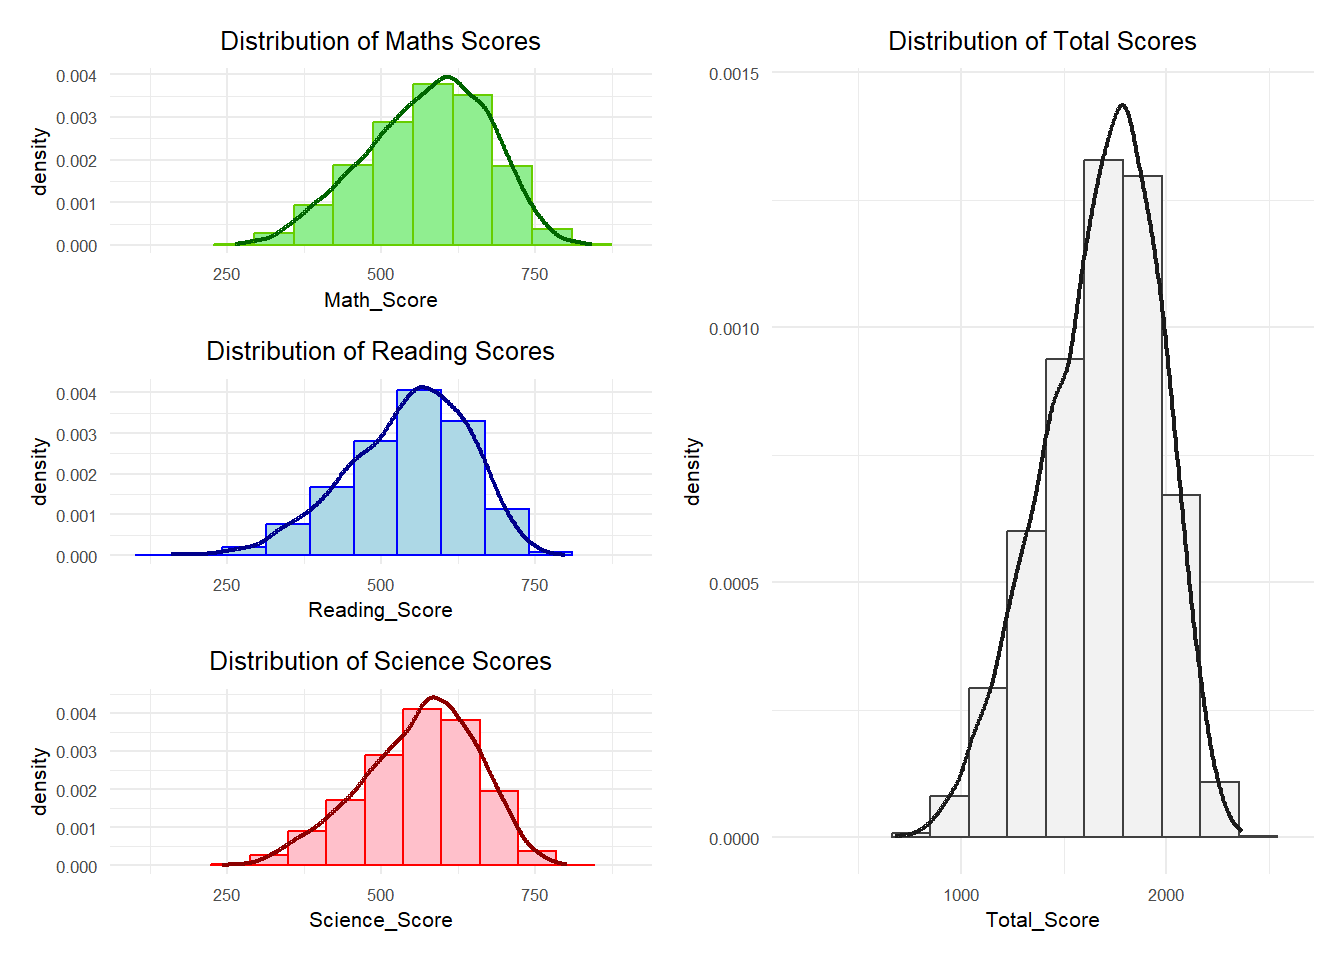
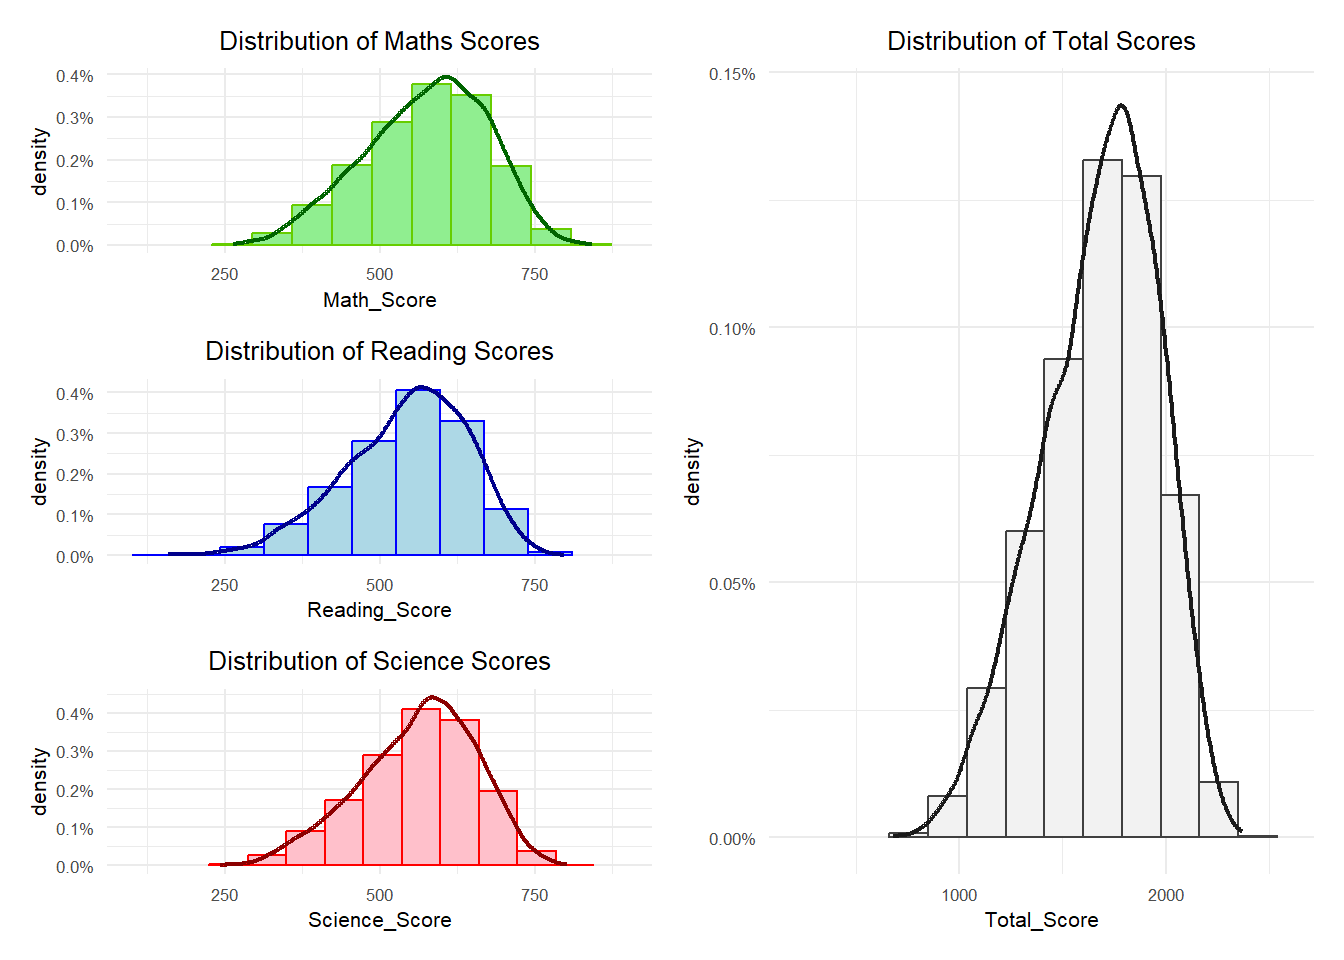
Commit

diff --git a/_site/Take-home_Ex/Take-home_Ex02/Take-home_Ex02.html b/_site/Take-home_Ex/Take-home_Ex02/Take-home_Ex02.html
@@ -368,40 +368,44 @@ pre > code.sourceCode > span > a:first-child::before { text-decoration: underlin
 <div class="sourceCode cell-code" id="cb5"><pre class="sourceCode r code-with-copy"><code class="sourceCode r"><span id="cb5-1"><a href="#cb5-1" aria-hidden="true" tabindex="-1"></a>plot1 <span class="ot">&lt;-</span> <span class="fu">ggplot</span>(<span class="at">data =</span> PV, <span class="fu">aes</span>(<span class="at">x =</span> Math_Score, <span class="at">y =</span> <span class="fu">after_stat</span>(density))) <span class="sc">+</span></span>
 <span id="cb5-2"><a href="#cb5-2" aria-hidden="true" tabindex="-1"></a>  <span class="fu">geom_histogram</span>(<span class="at">bins =</span> <span class="dv">10</span>, <span class="at">boundary =</span> <span class="dv">100</span>, <span class="at">color =</span> <span class="st">"chartreuse3"</span>, <span class="at">fill =</span> <span class="st">"lightgreen"</span>) <span class="sc">+</span></span>
 <span id="cb5-3"><a href="#cb5-3" aria-hidden="true" tabindex="-1"></a>  <span class="fu">geom_density</span>(<span class="at">lwd =</span> <span class="fl">0.8</span>, <span class="at">colour =</span> <span class="st">"darkgreen"</span>) <span class="sc">+</span></span>
-<span id="cb5-4"><a href="#cb5-4" aria-hidden="true" tabindex="-1"></a>  <span class="fu">coord_cartesian</span>(<span class="at">xlim =</span> <span class="fu">c</span>(<span class="dv">100</span>, <span class="dv">900</span>)) <span class="sc">+</span></span>
-<span id="cb5-5"><a href="#cb5-5" aria-hidden="true" tabindex="-1"></a>  <span class="fu">ggtitle</span>(<span class="st">"Distribution of Maths Scores"</span>)<span class="sc">+</span></span>
-<span id="cb5-6"><a href="#cb5-6" aria-hidden="true" tabindex="-1"></a>  <span class="fu">theme_minimal</span>() <span class="sc">+</span></span>
-<span id="cb5-7"><a href="#cb5-7" aria-hidden="true" tabindex="-1"></a>  <span class="fu">theme</span>(<span class="at">text =</span> <span class="fu">element_text</span>(<span class="at">size =</span> <span class="dv">8</span>),</span>
-<span id="cb5-8"><a href="#cb5-8" aria-hidden="true" tabindex="-1"></a>        <span class="at">plot.title =</span> <span class="fu">element_text</span>(<span class="at">hjust =</span> <span class="fl">0.5</span>))</span>
-<span id="cb5-9"><a href="#cb5-9" aria-hidden="true" tabindex="-1"></a>  </span>
-<span id="cb5-10"><a href="#cb5-10" aria-hidden="true" tabindex="-1"></a>plot2 <span class="ot">&lt;-</span> <span class="fu">ggplot</span>(<span class="at">data =</span> PV, <span class="fu">aes</span>(<span class="at">x =</span> Reading_Score, <span class="at">y =</span> <span class="fu">after_stat</span>(density))) <span class="sc">+</span></span>
-<span id="cb5-11"><a href="#cb5-11" aria-hidden="true" tabindex="-1"></a>  <span class="fu">geom_histogram</span>(<span class="at">bins =</span> <span class="dv">10</span>, <span class="at">boundary =</span> <span class="dv">100</span>, <span class="at">color =</span> <span class="st">"blue"</span>, <span class="at">fill =</span> <span class="st">"lightblue"</span>) <span class="sc">+</span></span>
-<span id="cb5-12"><a href="#cb5-12" aria-hidden="true" tabindex="-1"></a>  <span class="fu">geom_density</span>(<span class="at">lwd =</span> <span class="fl">0.8</span>, <span class="at">colour =</span> <span class="st">"darkblue"</span>) <span class="sc">+</span></span>
-<span id="cb5-13"><a href="#cb5-13" aria-hidden="true" tabindex="-1"></a>  <span class="fu">coord_cartesian</span>(<span class="at">xlim =</span> <span class="fu">c</span>(<span class="dv">100</span>, <span class="dv">900</span>)) <span class="sc">+</span></span>
-<span id="cb5-14"><a href="#cb5-14" aria-hidden="true" tabindex="-1"></a>  <span class="fu">ggtitle</span>(<span class="st">"Distribution of Reading Scores"</span>)<span class="sc">+</span></span>
-<span id="cb5-15"><a href="#cb5-15" aria-hidden="true" tabindex="-1"></a>  <span class="fu">theme_minimal</span>() <span class="sc">+</span></span>
-<span id="cb5-16"><a href="#cb5-16" aria-hidden="true" tabindex="-1"></a>  <span class="fu">theme</span>(<span class="at">text =</span> <span class="fu">element_text</span>(<span class="at">size =</span> <span class="dv">8</span>),</span>
-<span id="cb5-17"><a href="#cb5-17" aria-hidden="true" tabindex="-1"></a>        <span class="at">plot.title =</span> <span class="fu">element_text</span>(<span class="at">hjust =</span> <span class="fl">0.5</span>))</span>
-<span id="cb5-18"><a href="#cb5-18" aria-hidden="true" tabindex="-1"></a></span>
-<span id="cb5-19"><a href="#cb5-19" aria-hidden="true" tabindex="-1"></a>plot3 <span class="ot">&lt;-</span> <span class="fu">ggplot</span>(<span class="at">data =</span> PV, <span class="fu">aes</span>(<span class="at">x =</span> Science_Score, <span class="at">y =</span> <span class="fu">after_stat</span>(density))) <span class="sc">+</span></span>
-<span id="cb5-20"><a href="#cb5-20" aria-hidden="true" tabindex="-1"></a>  <span class="fu">geom_histogram</span>(<span class="at">bins =</span> <span class="dv">10</span>, <span class="at">boundary =</span> <span class="dv">100</span>, <span class="at">color =</span> <span class="st">"red"</span>, <span class="at">fill =</span> <span class="st">"pink"</span>) <span class="sc">+</span></span>
-<span id="cb5-21"><a href="#cb5-21" aria-hidden="true" tabindex="-1"></a>  <span class="fu">geom_density</span>(<span class="at">lwd =</span> <span class="fl">0.8</span>, <span class="at">colour =</span> <span class="st">"darkred"</span>) <span class="sc">+</span></span>
-<span id="cb5-22"><a href="#cb5-22" aria-hidden="true" tabindex="-1"></a>  <span class="fu">coord_cartesian</span>(<span class="at">xlim =</span> <span class="fu">c</span>(<span class="dv">100</span>, <span class="dv">900</span>)) <span class="sc">+</span></span>
-<span id="cb5-23"><a href="#cb5-23" aria-hidden="true" tabindex="-1"></a>  <span class="fu">ggtitle</span>(<span class="st">"Distribution of Science Scores"</span>)<span class="sc">+</span></span>
-<span id="cb5-24"><a href="#cb5-24" aria-hidden="true" tabindex="-1"></a>  <span class="fu">theme_minimal</span>() <span class="sc">+</span></span>
-<span id="cb5-25"><a href="#cb5-25" aria-hidden="true" tabindex="-1"></a>  <span class="fu">theme</span>(<span class="at">text =</span> <span class="fu">element_text</span>(<span class="at">size =</span> <span class="dv">8</span>),</span>
-<span id="cb5-26"><a href="#cb5-26" aria-hidden="true" tabindex="-1"></a>        <span class="at">plot.title =</span> <span class="fu">element_text</span>(<span class="at">hjust =</span> <span class="fl">0.5</span>))</span>
-<span id="cb5-27"><a href="#cb5-27" aria-hidden="true" tabindex="-1"></a></span>
-<span id="cb5-28"><a href="#cb5-28" aria-hidden="true" tabindex="-1"></a>plot4 <span class="ot">&lt;-</span> <span class="fu">ggplot</span>(<span class="at">data =</span> PV, <span class="fu">aes</span>(<span class="at">x =</span> Total_Score, <span class="at">y =</span> <span class="fu">after_stat</span>(density))) <span class="sc">+</span></span>
-<span id="cb5-29"><a href="#cb5-29" aria-hidden="true" tabindex="-1"></a>  <span class="fu">geom_histogram</span>(<span class="at">bins =</span> <span class="dv">10</span>, <span class="at">boundary =</span> <span class="dv">100</span>, <span class="at">color =</span> <span class="st">"gray25"</span>, <span class="at">fill =</span> <span class="st">"gray95"</span>) <span class="sc">+</span></span>
-<span id="cb5-30"><a href="#cb5-30" aria-hidden="true" tabindex="-1"></a>  <span class="fu">geom_density</span>(<span class="at">lwd =</span> <span class="fl">0.8</span>, <span class="at">colour =</span> <span class="st">"gray10"</span>) <span class="sc">+</span></span>
-<span id="cb5-31"><a href="#cb5-31" aria-hidden="true" tabindex="-1"></a>  <span class="fu">coord_cartesian</span>(<span class="at">xlim =</span> <span class="fu">c</span>(<span class="dv">200</span>, <span class="dv">2600</span>)) <span class="sc">+</span></span>
-<span id="cb5-32"><a href="#cb5-32" aria-hidden="true" tabindex="-1"></a>  <span class="fu">ggtitle</span>(<span class="st">"Distribution of Total Scores"</span>)<span class="sc">+</span></span>
-<span id="cb5-33"><a href="#cb5-33" aria-hidden="true" tabindex="-1"></a>  <span class="fu">theme_minimal</span>() <span class="sc">+</span></span>
-<span id="cb5-34"><a href="#cb5-34" aria-hidden="true" tabindex="-1"></a>  <span class="fu">theme</span>(<span class="at">text =</span> <span class="fu">element_text</span>(<span class="at">size =</span> <span class="dv">8</span>),</span>
-<span id="cb5-35"><a href="#cb5-35" aria-hidden="true" tabindex="-1"></a>        <span class="at">plot.title =</span> <span class="fu">element_text</span>(<span class="at">hjust =</span> <span class="fl">0.5</span>))</span>
-<span id="cb5-36"><a href="#cb5-36" aria-hidden="true" tabindex="-1"></a></span>
-<span id="cb5-37"><a href="#cb5-37" aria-hidden="true" tabindex="-1"></a>(plot1 <span class="sc">/</span> plot2 <span class="sc">/</span> plot3) <span class="sc">|</span> plot4</span></code><button title="Copy to Clipboard" class="code-copy-button"><i class="bi"></i></button></pre></div>
+<span id="cb5-4"><a href="#cb5-4" aria-hidden="true" tabindex="-1"></a>  <span class="fu">scale_y_continuous</span>(<span class="at">labels =</span> scales<span class="sc">::</span>percent) <span class="sc">+</span></span>
+<span id="cb5-5"><a href="#cb5-5" aria-hidden="true" tabindex="-1"></a>  <span class="fu">coord_cartesian</span>(<span class="at">xlim =</span> <span class="fu">c</span>(<span class="dv">100</span>, <span class="dv">900</span>)) <span class="sc">+</span></span>
+<span id="cb5-6"><a href="#cb5-6" aria-hidden="true" tabindex="-1"></a>  <span class="fu">ggtitle</span>(<span class="st">"Distribution of Maths Scores"</span>)<span class="sc">+</span></span>
+<span id="cb5-7"><a href="#cb5-7" aria-hidden="true" tabindex="-1"></a>  <span class="fu">theme_minimal</span>() <span class="sc">+</span></span>
+<span id="cb5-8"><a href="#cb5-8" aria-hidden="true" tabindex="-1"></a>  <span class="fu">theme</span>(<span class="at">text =</span> <span class="fu">element_text</span>(<span class="at">size =</span> <span class="dv">8</span>),</span>
+<span id="cb5-9"><a href="#cb5-9" aria-hidden="true" tabindex="-1"></a>        <span class="at">plot.title =</span> <span class="fu">element_text</span>(<span class="at">hjust =</span> <span class="fl">0.5</span>))</span>
+<span id="cb5-10"><a href="#cb5-10" aria-hidden="true" tabindex="-1"></a>  </span>
+<span id="cb5-11"><a href="#cb5-11" aria-hidden="true" tabindex="-1"></a>plot2 <span class="ot">&lt;-</span> <span class="fu">ggplot</span>(<span class="at">data =</span> PV, <span class="fu">aes</span>(<span class="at">x =</span> Reading_Score, <span class="at">y =</span> <span class="fu">after_stat</span>(density))) <span class="sc">+</span></span>
+<span id="cb5-12"><a href="#cb5-12" aria-hidden="true" tabindex="-1"></a>  <span class="fu">geom_histogram</span>(<span class="at">bins =</span> <span class="dv">10</span>, <span class="at">boundary =</span> <span class="dv">100</span>, <span class="at">color =</span> <span class="st">"blue"</span>, <span class="at">fill =</span> <span class="st">"lightblue"</span>) <span class="sc">+</span></span>
+<span id="cb5-13"><a href="#cb5-13" aria-hidden="true" tabindex="-1"></a>  <span class="fu">geom_density</span>(<span class="at">lwd =</span> <span class="fl">0.8</span>, <span class="at">colour =</span> <span class="st">"darkblue"</span>) <span class="sc">+</span></span>
+<span id="cb5-14"><a href="#cb5-14" aria-hidden="true" tabindex="-1"></a>  <span class="fu">scale_y_continuous</span>(<span class="at">labels =</span> scales<span class="sc">::</span>percent) <span class="sc">+</span></span>
+<span id="cb5-15"><a href="#cb5-15" aria-hidden="true" tabindex="-1"></a>  <span class="fu">coord_cartesian</span>(<span class="at">xlim =</span> <span class="fu">c</span>(<span class="dv">100</span>, <span class="dv">900</span>)) <span class="sc">+</span></span>
+<span id="cb5-16"><a href="#cb5-16" aria-hidden="true" tabindex="-1"></a>  <span class="fu">ggtitle</span>(<span class="st">"Distribution of Reading Scores"</span>)<span class="sc">+</span></span>
+<span id="cb5-17"><a href="#cb5-17" aria-hidden="true" tabindex="-1"></a>  <span class="fu">theme_minimal</span>() <span class="sc">+</span></span>
+<span id="cb5-18"><a href="#cb5-18" aria-hidden="true" tabindex="-1"></a>  <span class="fu">theme</span>(<span class="at">text =</span> <span class="fu">element_text</span>(<span class="at">size =</span> <span class="dv">8</span>),</span>
+<span id="cb5-19"><a href="#cb5-19" aria-hidden="true" tabindex="-1"></a>        <span class="at">plot.title =</span> <span class="fu">element_text</span>(<span class="at">hjust =</span> <span class="fl">0.5</span>))</span>
+<span id="cb5-20"><a href="#cb5-20" aria-hidden="true" tabindex="-1"></a></span>
+<span id="cb5-21"><a href="#cb5-21" aria-hidden="true" tabindex="-1"></a>plot3 <span class="ot">&lt;-</span> <span class="fu">ggplot</span>(<span class="at">data =</span> PV, <span class="fu">aes</span>(<span class="at">x =</span> Science_Score, <span class="at">y =</span> <span class="fu">after_stat</span>(density))) <span class="sc">+</span></span>
+<span id="cb5-22"><a href="#cb5-22" aria-hidden="true" tabindex="-1"></a>  <span class="fu">geom_histogram</span>(<span class="at">bins =</span> <span class="dv">10</span>, <span class="at">boundary =</span> <span class="dv">100</span>, <span class="at">color =</span> <span class="st">"red"</span>, <span class="at">fill =</span> <span class="st">"pink"</span>) <span class="sc">+</span></span>
+<span id="cb5-23"><a href="#cb5-23" aria-hidden="true" tabindex="-1"></a>  <span class="fu">geom_density</span>(<span class="at">lwd =</span> <span class="fl">0.8</span>, <span class="at">colour =</span> <span class="st">"darkred"</span>) <span class="sc">+</span></span>
+<span id="cb5-24"><a href="#cb5-24" aria-hidden="true" tabindex="-1"></a>  <span class="fu">scale_y_continuous</span>(<span class="at">labels =</span> scales<span class="sc">::</span>percent) <span class="sc">+</span></span>
+<span id="cb5-25"><a href="#cb5-25" aria-hidden="true" tabindex="-1"></a>  <span class="fu">coord_cartesian</span>(<span class="at">xlim =</span> <span class="fu">c</span>(<span class="dv">100</span>, <span class="dv">900</span>)) <span class="sc">+</span></span>
+<span id="cb5-26"><a href="#cb5-26" aria-hidden="true" tabindex="-1"></a>  <span class="fu">ggtitle</span>(<span class="st">"Distribution of Science Scores"</span>)<span class="sc">+</span></span>
+<span id="cb5-27"><a href="#cb5-27" aria-hidden="true" tabindex="-1"></a>  <span class="fu">theme_minimal</span>() <span class="sc">+</span></span>
+<span id="cb5-28"><a href="#cb5-28" aria-hidden="true" tabindex="-1"></a>  <span class="fu">theme</span>(<span class="at">text =</span> <span class="fu">element_text</span>(<span class="at">size =</span> <span class="dv">8</span>),</span>
+<span id="cb5-29"><a href="#cb5-29" aria-hidden="true" tabindex="-1"></a>        <span class="at">plot.title =</span> <span class="fu">element_text</span>(<span class="at">hjust =</span> <span class="fl">0.5</span>))</span>
+<span id="cb5-30"><a href="#cb5-30" aria-hidden="true" tabindex="-1"></a></span>
+<span id="cb5-31"><a href="#cb5-31" aria-hidden="true" tabindex="-1"></a>plot4 <span class="ot">&lt;-</span> <span class="fu">ggplot</span>(<span class="at">data =</span> PV, <span class="fu">aes</span>(<span class="at">x =</span> Total_Score, <span class="at">y =</span> <span class="fu">after_stat</span>(density))) <span class="sc">+</span></span>
+<span id="cb5-32"><a href="#cb5-32" aria-hidden="true" tabindex="-1"></a>  <span class="fu">geom_histogram</span>(<span class="at">bins =</span> <span class="dv">10</span>, <span class="at">boundary =</span> <span class="dv">100</span>, <span class="at">color =</span> <span class="st">"gray25"</span>, <span class="at">fill =</span> <span class="st">"gray95"</span>) <span class="sc">+</span></span>
+<span id="cb5-33"><a href="#cb5-33" aria-hidden="true" tabindex="-1"></a>  <span class="fu">geom_density</span>(<span class="at">lwd =</span> <span class="fl">0.8</span>, <span class="at">colour =</span> <span class="st">"gray10"</span>) <span class="sc">+</span></span>
+<span id="cb5-34"><a href="#cb5-34" aria-hidden="true" tabindex="-1"></a>  <span class="fu">scale_y_continuous</span>(<span class="at">labels =</span> scales<span class="sc">::</span>percent) <span class="sc">+</span></span>
+<span id="cb5-35"><a href="#cb5-35" aria-hidden="true" tabindex="-1"></a>  <span class="fu">coord_cartesian</span>(<span class="at">xlim =</span> <span class="fu">c</span>(<span class="dv">200</span>, <span class="dv">2600</span>)) <span class="sc">+</span></span>
+<span id="cb5-36"><a href="#cb5-36" aria-hidden="true" tabindex="-1"></a>  <span class="fu">ggtitle</span>(<span class="st">"Distribution of Total Scores"</span>)<span class="sc">+</span></span>
+<span id="cb5-37"><a href="#cb5-37" aria-hidden="true" tabindex="-1"></a>  <span class="fu">theme_minimal</span>() <span class="sc">+</span></span>
+<span id="cb5-38"><a href="#cb5-38" aria-hidden="true" tabindex="-1"></a>  <span class="fu">theme</span>(<span class="at">text =</span> <span class="fu">element_text</span>(<span class="at">size =</span> <span class="dv">8</span>),</span>
+<span id="cb5-39"><a href="#cb5-39" aria-hidden="true" tabindex="-1"></a>        <span class="at">plot.title =</span> <span class="fu">element_text</span>(<span class="at">hjust =</span> <span class="fl">0.5</span>))</span>
+<span id="cb5-40"><a href="#cb5-40" aria-hidden="true" tabindex="-1"></a></span>
+<span id="cb5-41"><a href="#cb5-41" aria-hidden="true" tabindex="-1"></a>(plot1 <span class="sc">/</span> plot2 <span class="sc">/</span> plot3) <span class="sc">|</span> plot4</span></code><button title="Copy to Clipboard" class="code-copy-button"><i class="bi"></i></button></pre></div>
 </div>
 </div>
 </div>
@@ -412,7 +416,12 @@ pre > code.sourceCode > span > a:first-child::before { text-decoration: underlin
 <p><strong>Original plot</strong></p>
 <p><img src="images/clipboard-4228929711.png" class="img-fluid"></p>
 <p><strong>What’s good about this plot?</strong></p>
+<p>While comparing the distribution between genders, the author used different colors so it’s easy to differentiate the distributions for female students and male students.</p>
 <p><strong>What can be improved?</strong></p>
+<ul>
+<li>Although there are supposed to be two colors to represent female students and male students, it seems to be three categories when we first look at the graph because a third color is created at the area where the two distributions overlap. I’d suggest to use density curves without filling color.</li>
+</ul>
+<p><strong>A remake of the plot</strong></p>
 </section>
 <section id="student-performance-by-school" class="level3">
 <h3 class="anchored" data-anchor-id="student-performance-by-school">3.3 Student Performance by School</h3>
@@ -420,6 +429,7 @@ pre > code.sourceCode > span > a:first-child::before { text-decoration: underlin
 <p><img src="images/clipboard-4209240081.png" class="img-fluid"></p>
 <p><strong>What’s good about this plot?</strong></p>
 <p><strong>What can be improved?</strong></p>
+<p><strong>A remake of the plot</strong></p>
 </section>
 <section id="student-performance-by-musical-instruments" class="level3">
 <h3 class="anchored" data-anchor-id="student-performance-by-musical-instruments">3.4 Student Performance by Musical Instruments</h3>
@@ -427,6 +437,7 @@ pre > code.sourceCode > span > a:first-child::before { text-decoration: underlin
 <p><img src="images/clipboard-630224302.png" class="img-fluid"></p>
 <p><strong>What’s good about this plot?</strong></p>
 <p><strong>What can be improved?</strong></p>
+<p><strong>A remake of the plot</strong></p>
 </section>
 <section id="student-performance-by-own-room" class="level3">
 <h3 class="anchored" data-anchor-id="student-performance-by-own-room">3.5 Student Performance by Own room</h3>
@@ -434,6 +445,7 @@ pre > code.sourceCode > span > a:first-child::before { text-decoration: underlin
 <p><img src="images/clipboard-594276490.png" class="img-fluid"></p>
 <p><strong>What’s good about this plot?</strong></p>
 <p><strong>What can be improved?</strong></p>
+<p><strong>A remake of the plot</strong></p>
 
 
 </section>
